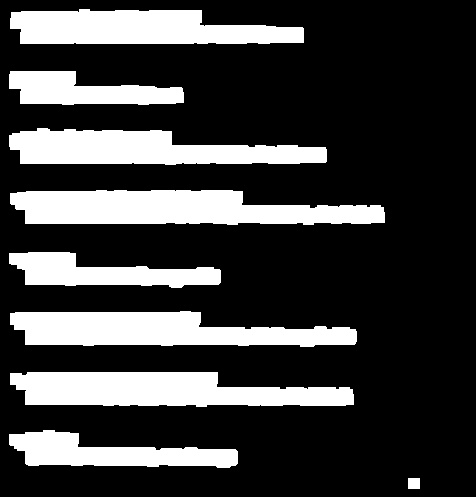
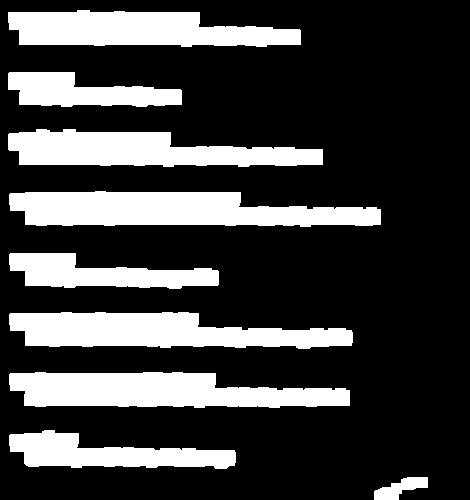
Добавил размыливание

diff --git a/main.py b/main.py
@@ -1,33 +1,24 @@
 import OcrToTableTool as ottt
-import TableExtractor as te
 import TableLinesRemover as tlr
-import cv2
-from PIL import Image
 import correctImage as ci
-import numpy as np
 
-def main(cropped_image):
-    tableArray = []
-    imgArray = []
-    answerArrays = []
+
+def main(image, coordinates):
+
+    answer_arrays = []
+    cropped_image = ci.cropImg(image, coordinates)
     pieces = ci.hough_lines(cropped_image)
-    for piece in pieces:
-        answerArray = []
-        table_extractor = te.TableExtractor(piece)
-        perspective_corrected_image = table_extractor.execute()
+    iter_list = [100, 50, 10]
+    for i, piece in enumerate(pieces):
+        answer_array = []
 
-        lines_remover = tlr.TableLinesRemover(perspective_corrected_image)
+        lines_remover = tlr.TableLinesRemover(piece, iter_list[i])
         image_without_lines = lines_remover.execute()
 
+        ocr_tool = ottt.OcrToTableTool(image_without_lines, piece)
+        reconition_ans = ocr_tool.execute()
 
-        ocr_tool = ottt.OcrToTableTool(image_without_lines, perspective_corrected_image)
-        answerArray.append(ocr_tool.execute())
-        answerArrays.append(answerArray[0])
+        answer_array.append(reconition_ans)
+        answer_arrays.append(answer_array[0])
 
-        #tableArray.append()
-
-    return answerArrays
-    ottt.OcrToTableTool.generate_csv_file(tableArray)
-
-    cv2.waitKey(0)
-    cv2.destroyAllWindows()
+    return answer_arrays

diff --git a/recognize_api.py b/recognize_api.py
@@ -50,25 +50,22 @@ class Quote(Resource):
             os.remove(fname)
             result.append({'error': r"error save file"})
 
+        operation_complete = False
         try:
             FileResult = []
             print('list ' + str(1) + ' ' + fname + ' ' + str(datetime.datetime.now()))
             image = cv2.imread(fname)
             coordinates = np.array(file["coordinates"])
-            cropped_image = correctImage.cropImg(image, coordinates)
-
-
-            result.append({'result': "success"})
+            result = main.main(image, coordinates)
+            operation_complete = True
         except:
             result.append({'error': str(sys.exc_info()[1])})
         os.remove(fname)
 
-        try:
-            result = main.main(cropped_image)
-        except:
-            result.append({'error'})
-        # Теперь нужно распределить результат
-        return result, 202
+        if operation_complete:
+            return result, 202
+        else:
+            return result, 404
 
     def put(self, id=0):
         return f"must use POST method", 201
@@ -85,4 +82,4 @@ def hello():
 api.add_resource(Quote, "/recognize", "/recognize/", "/recognize/<int:id>")
 if __name__ == '__main__':
     app.run(host='0.0.0.0', port='5000', debug=False)
-    #app.run(debug=True)
+    # app.run(debug=True)

diff --git a/OcrToTableTool.py b/OcrToTableTool.py
@@ -1,7 +1,5 @@
 import cv2
 import numpy as np
-import subprocess
-#import torch
 import pytesseract
 import time
 
@@ -26,7 +24,7 @@ class OcrToTableTool:
         self.sort_all_rows_by_x_coordinate()
         self.crop_each_bounding_box_and_ocr()
         return self.table
-        #self.generate_csv_file()
+
 
     def threshold_image(self):
         return cv2.threshold(self.grey_image, 0, 255, cv2.THRESH_BINARY + cv2.THRESH_OTSU)[1]
@@ -120,7 +118,6 @@ class OcrToTableTool:
     def get_result_from_tersseract(self, image_path):
 
         start_time = time.time()
-        use_easy_ocr = False
         image = cv2.imread(image_path)
         text = pytesseract.image_to_string(image, lang='eng+rus', config='--psm 6')
 
@@ -128,12 +125,6 @@ class OcrToTableTool:
         print("--- %s seconds ---" % (time.time() - start_time))
 
         return text
-
-    def generate_csv_file(tableArray):
-        with open("output.csv", "w") as f:
-            for array in tableArray:
-                for row in array:
-                    f.write(",".join(row) + "\n")
 
     def store_process_image(self, file_name, image):
         path = "./process_images/ocr_table_tool/" + file_name

diff --git a/TableLinesRemover.py b/TableLinesRemover.py
@@ -3,8 +3,9 @@ import numpy as np
 
 class TableLinesRemover:
 
-    def __init__(self, image):
+    def __init__(self, image, iterations):
         self.image = image
+        self.iterations = iterations
 
     def execute(self):
         self.grayscale_image()
@@ -64,8 +65,8 @@ class TableLinesRemover:
 
     def remove_noise_with_erode_and_dilate(self):
         kernel = cv2.getStructuringElement(cv2.MORPH_RECT, (2, 2))
-        #self.image_without_lines_noise_removed = cv2.erode(self.image_without_lines, kernel, iterations=1)
-        self.image_without_lines_noise_removed = cv2.dilate(self.image_without_lines, kernel, iterations=10)
+        self.image_without_lines_noise_removed = cv2.erode(self.image_without_lines, kernel, iterations=1)
+        self.image_without_lines_noise_removed = cv2.dilate(self.image_without_lines, kernel, iterations=self.iterations)
 
     def store_process_image(self, file_name, image):
         path = "./process_images/table_lines_remover/" + file_name

diff --git a/correctImage.py b/correctImage.py
@@ -8,7 +8,7 @@ def cropImg(image, pointsArray):
     x1, y1 = sorted_points[0][0] - reserve, sorted_points[0][1] - reserve
     x2, y2 = sorted_points[2][0] + reserve, sorted_points[2][1] + reserve
 
-    cropped = image[max(y1,0):min(y2,image.shape[0]), max(x1,0):min(x2,image.shape[1])]
+    cropped = image[max(y1, 0):min(y2, image.shape[0]), max(x1, 0):min(x2, image.shape[1])]
 
     return cropped
 
